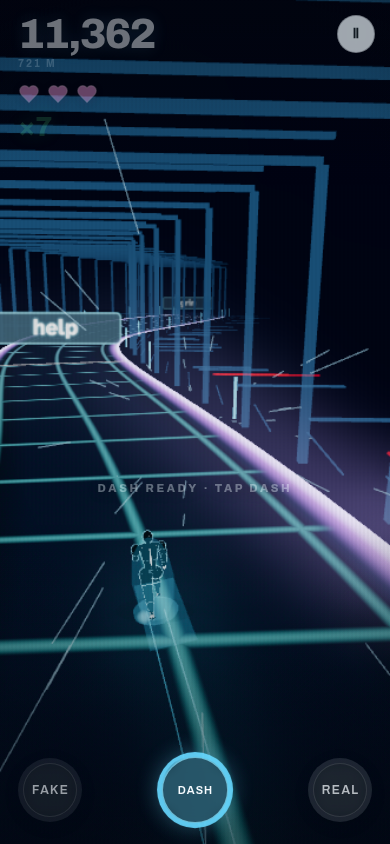
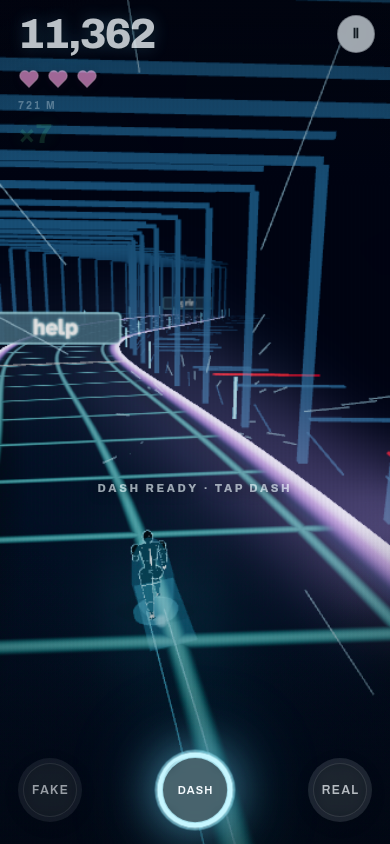
N11 — the HUD column cascades, and the touch ring carries its weight
## The column

The metres used to sit tucked against the score, so the headline and its
caption read as one block with the hearts and the multiplier hung off the
bottom of it. Reordered to headline, hearts, metres, multiplier: the four
rows now cascade by width as well as by weight — 137px, 80px, 50px, 60px on
a phone — and the eye walks down them instead of hitting a block and then a
list.

Measured on both pointer classes, still one left edge (18px on a phone,
348px inside the letterboxed play area) with tops at 16 / 67 / 100 / 121.
The rhythm was retuned for the new order rather than inherited: the hearts
now sit under a clamp(38px..66px) headline and the metres under a fixed
22px heart row, which are different gaps.

## The ring

Under a coarse pointer the bottom charge bar is display:none — one tell per
mechanic — so on a phone this ring is the WHOLE dash mechanic, and it was
announcing a full charge with a 30px halo at 0.42 opacity: quieter than the
desktop bar it stands in for, for the button that does the exciting thing.

It now wears a lit 2px rim, a 46px halo and a 92px falloff beyond that, and
the charged arc itself goes white-hot (rgba(198,246,255,1)) rather than
staying the cyan it charges in — so full does not merely mean "the ring
completed", it means the ring changed state.

All of that is on `armed`, which is the STATE: it survives REDUCED FLASH,
and it survives the pulse retiring once the player has learned the verb —
[…]

diff --git a/index.html b/index.html
@@ -48,7 +48,11 @@
   #hud{position:absolute;inset:0;z-index:20;pointer-events:none;padding:calc(var(--safe-t) + 16px) 18px calc(var(--safe-b) + 18px);display:flex;flex-direction:column;justify-content:space-between;opacity:0;transition:opacity .25s ease}
   #hud.on{opacity:1}.row{display:flex;align-items:flex-start;justify-content:space-between}
   #dist{font-size:clamp(38px,11vw,66px);font-weight:800;line-height:.86;letter-spacing:-.045em;color:#f4fbff;text-shadow:0 0 18px rgba(103,216,255,.3),0 1px 2px rgba(2,6,10,.85)}
-  #distSub{margin-top:5px;font-size:10px;font-weight:700;letter-spacing:.2em;color:var(--dim)}
+  /* The metres sit UNDER the hearts, not tucked against the score. The four
+     rows then cascade by width as well as by weight — the headline, the
+     heart row, the caption, the multiplier — instead of the big number and
+     its caption reading as one block with the rest hung off the bottom. */
+  #distSub{margin-top:11px;font-size:10px;font-weight:700;letter-spacing:.2em;color:var(--dim)}
   /* RC9.2 — the score to beat, on a challenge run and nowhere else. A second
      quiet figure under the metre caption: smaller than the caption, so it
      never competes with the score it is measured against, and it turns the
@@ -61,8 +65,9 @@
   /* Playtest: the hearts sat at a fixed offset from the top while the score
      above them is clamp(38px..66px) tall, so on a wide viewport the headline
      grew straight through them. They live in the column's flow now and cannot
-     collide with it at any size. */
-  #vitalsSlot{margin-top:13px;min-height:22px}
+     collide with it at any size — and they sit directly under the headline,
+     with the metres below them. */
+  #vitalsSlot{margin-top:14px;min-height:22px}
   /* Hearts — the fail state, one pip per life. Built and driven by ui.js
      (Phase 0: relocated here from the deleted rc5.js style injection). The
      danger colour is overridden per colour-vision palette in ui/access.js. */
@@ -649,7 +654,7 @@
   <div id="attractLine" aria-hidden="true"></div>
 
   <div id="hud">
-    <div><div class="row"><div><div id="dist">0</div><div id="distSub">0 M</div><div id="distTarget"></div><div id="vitalsSlot"></div><div id="combo" aria-hidden="true"></div></div><div id="best" hidden><span>BEST TODAY</span><b id="bestVal">—</b></div></div><div id="chain"></div></div>
+    <div><div class="row"><div><div id="dist">0</div><div id="vitalsSlot"></div><div id="distSub">0 M</div><div id="distTarget"></div><div id="combo" aria-hidden="true"></div></div><div id="best" hidden><span>BEST TODAY</span><b id="bestVal">—</b></div></div><div id="chain"></div></div>
     <div class="meter-zone"><div id="meterLabel"><span class="mLabel">DASH</span><i></i></div><div id="meterWrap"><div id="meter"></div></div></div>
   </div>
 

diff --git a/src/v1-mobile-ui.js b/src/v1-mobile-ui.js
@@ -59,10 +59,27 @@ function ensureMobileUi() {
        REAL button beside it, for the button that does the exciting thing.
        Now it is full-strength with a lit rim; the ready class adds a pulse
        while the dash is unlearned, and REDUCED FLASH withholds it. */
-    #v1MobileDash.armed{opacity:1;box-shadow:0 0 30px rgba(103,216,255,.42),0 4px 20px rgba(4,9,13,.18)}
-    #v1MobileDash.armed::before{border-color:rgba(140,230,255,.7);background:rgba(12,30,40,.68)}
+    /* N11: pushed further. Under a coarse pointer the bottom charge bar is
+       hidden, so this ring is the ONLY thing on a phone that says the dash is
+       ready — and it was saying it with a 30px halo at 0.42, quieter than the
+       desktop bar it replaces. It now wears a lit rim, a wide halo and a
+       second falloff beyond that, and the charged arc itself goes white-hot
+       rather than staying the same cyan it charges in.
+       All of that is on the ARMED class, which is the state — so it survives
+       REDUCED FLASH and survives the pulse retiring once the verb is learned.
+       Only the breathing is on ready, and its trough is lifted to meet the
+       new baseline so the pulse never reads as a dip below it. */
+    #v1MobileDash.armed{opacity:1;
+      background:conic-gradient(rgba(198,246,255,1) var(--dash-angle,0deg),rgba(238,248,252,.14) var(--dash-angle,0deg));
+      box-shadow:0 0 0 2px rgba(150,235,255,.55),0 0 46px rgba(103,216,255,.62),
+        0 0 92px rgba(103,216,255,.26),0 4px 20px rgba(4,9,13,.18)}
+    #v1MobileDash.armed::before{border-color:rgba(180,242,255,.85);background:rgba(12,30,40,.68)}
     #v1MobileDash.ready{animation:dashButtonReady 1.15s ease-in-out infinite}
-    @keyframes dashButtonReady{0%,100%{box-shadow:0 0 22px rgba(103,216,255,.32),0 4px 20px rgba(4,9,13,.18);transform:scale(1)}50%{box-shadow:0 0 44px rgba(103,216,255,.78),0 4px 20px rgba(4,9,13,.22);transform:scale(1.045)}}
+    @keyframes dashButtonReady{
+      0%,100%{box-shadow:0 0 0 2px rgba(150,235,255,.55),0 0 46px rgba(103,216,255,.62),
+        0 0 92px rgba(103,216,255,.26),0 4px 20px rgba(4,9,13,.18);transform:scale(1)}
+      50%{box-shadow:0 0 0 3px rgba(206,250,255,.9),0 0 76px rgba(140,232,255,.95),
+        0 0 140px rgba(103,216,255,.42),0 4px 20px rgba(4,9,13,.22);transform:scale(1.05)}}
     /* RC7: the stop's ring. It marks the control the teach band's line names
        — the only addition to a frozen frame besides that line. REDUCED FLASH
        keeps the ring and drops its pulse: the mark is the information, the
